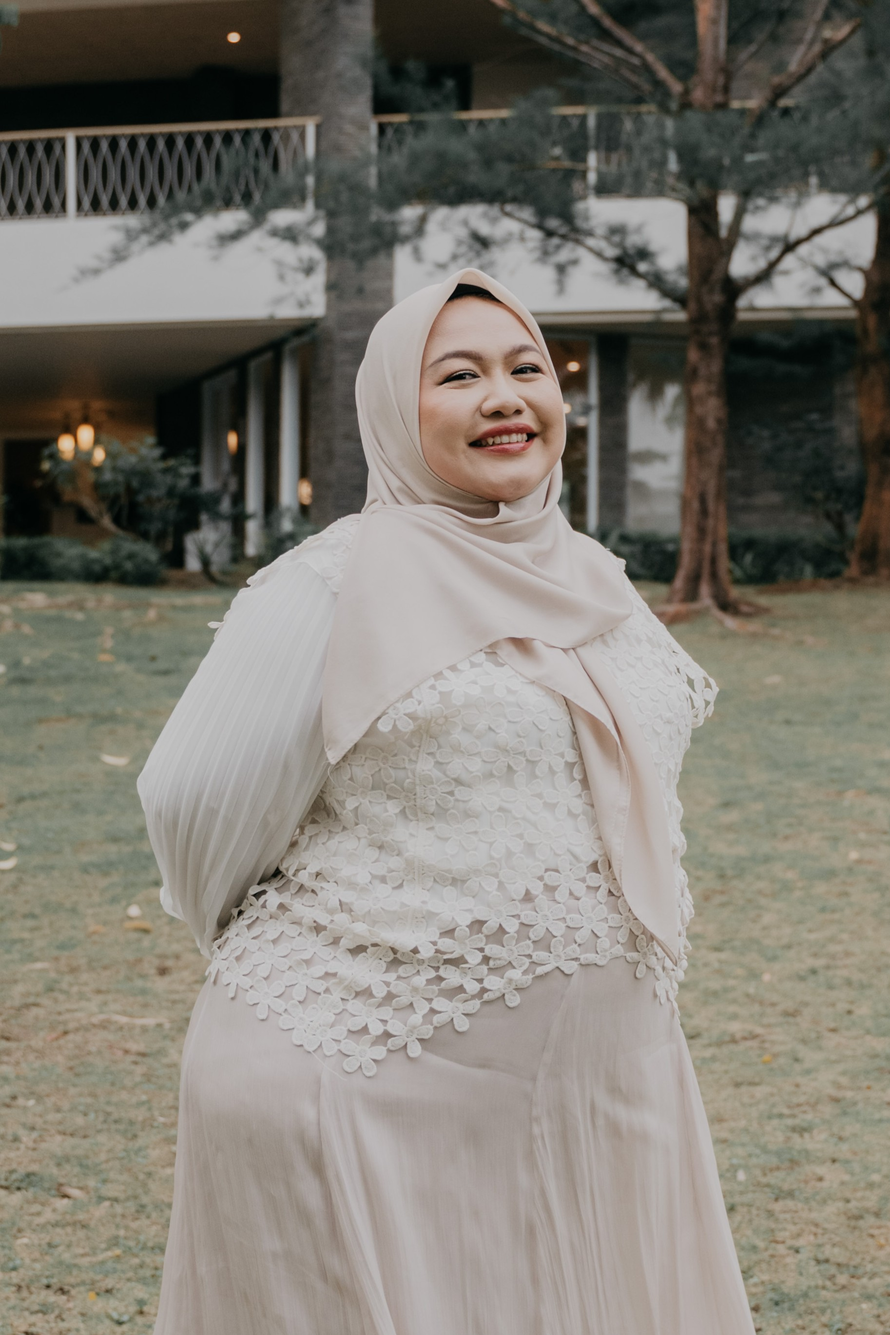
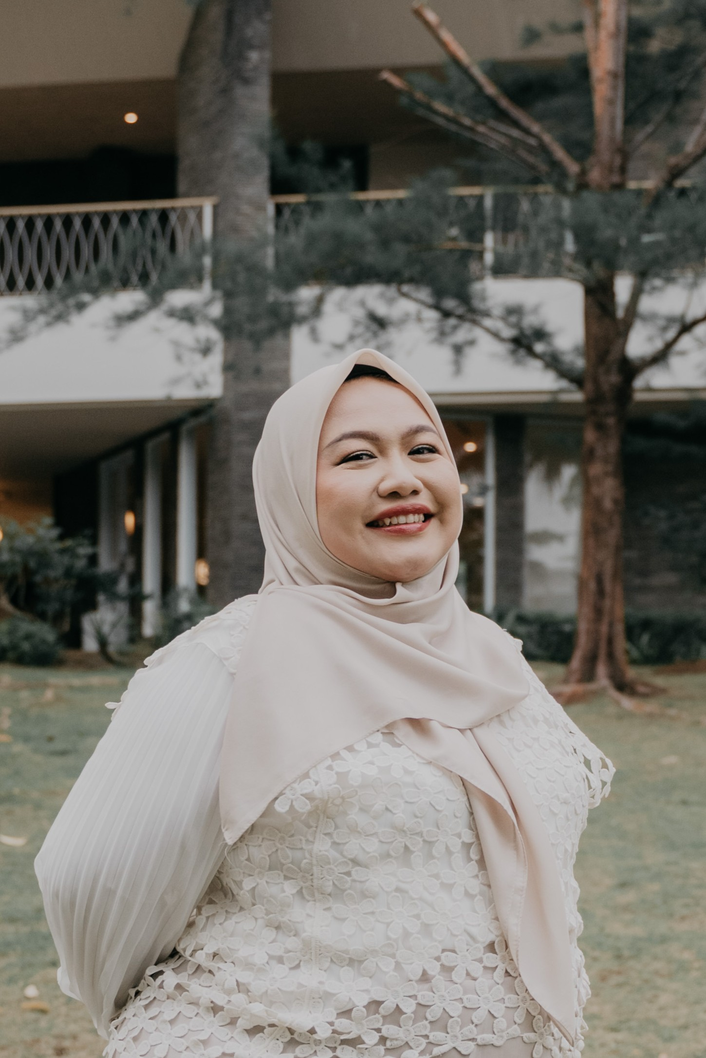
fix: keep parent names on one line and wire up Instagram links
Groom's parent line was long enough to wrap to a second line; widened
the column and applied a responsive clamp() font-size with nowrap so
it always fits on one line, on mobile included.

Instagram icons previously linked to "#". Added brideInstagram /
groomInstagram to config and wired them into the icon links (opens in
a new tab). Fill in the actual usernames in wedding.ts.

Also includes updated bride/groom photo assets and parent names.

diff --git a/src/components/CoupleSection.tsx b/src/components/CoupleSection.tsx
@@ -33,13 +33,18 @@ export const CoupleSection = () => {
             initial={{ opacity: 0, x: -50 }}
             animate={isInView ? { opacity: 1, x: 0 } : { opacity: 0, x: -50 }}
             transition={{ duration: 0.8, delay: 0.2 }}
-            className="flex flex-col items-center text-center max-w-xs"
+            className="flex flex-col items-center text-center max-w-sm w-full px-2"
           >
             <PhotoPlaceholder initial={weddingConfig.brideInitial} photo={weddingConfig.bridePhoto} size="lg" className="mb-8" />
             <h3 className="t2 text-text-main mb-2">{weddingConfig.brideFullName}</h3>
-            <p className="t5 text-olive-text mb-4">{weddingConfig.brideParents}</p>
+            <p
+              className="text-olive-text mb-4 whitespace-nowrap"
+              style={{ fontFamily: 'var(--font-body)', fontWeight: 300, letterSpacing: '0.05em', fontSize: 'clamp(0.7rem, 3.3vw, 0.95rem)' }}
+            >
+              {weddingConfig.brideParents}
+            </p>
             <div className="flex gap-4 mt-2">
-              <a href="#" className="w-8 h-8 rounded-full border border-gold-warm/50 flex items-center justify-center text-gold-warm hover:bg-gold-warm hover:text-sage-cream transition-colors">
+              <a href={weddingConfig.brideInstagram} target="_blank" rel="noopener noreferrer" className="w-8 h-8 rounded-full border border-gold-warm/50 flex items-center justify-center text-gold-warm hover:bg-gold-warm hover:text-sage-cream transition-colors">
                  <span className="sr-only">Instagram</span>
                  <svg width="14" height="14" viewBox="0 0 24 24" fill="none" stroke="currentColor" strokeWidth="2" strokeLinecap="round" strokeLinejoin="round"><rect x="2" y="2" width="20" height="20" rx="5" ry="5"></rect><path d="M16 11.37A4 4 0 1 1 12.63 8 4 4 0 0 1 16 11.37z"></path><line x1="17.5" y1="6.5" x2="17.51" y2="6.5"></line></svg>
               </a>
@@ -63,13 +68,18 @@ export const CoupleSection = () => {
             initial={{ opacity: 0, x: 50 }}
             animate={isInView ? { opacity: 1, x: 0 } : { opacity: 0, x: 50 }}
             transition={{ duration: 0.8, delay: 0.2 }}
-            className="flex flex-col items-center text-center max-w-xs"
+            className="flex flex-col items-center text-center max-w-sm w-full px-2"
           >
             <PhotoPlaceholder initial={weddingConfig.groomInitial} photo={weddingConfig.groomPhoto} size="lg" className="mb-8" />
             <h3 className="t2 text-text-main mb-2">{weddingConfig.groomFullName}</h3>
-            <p className="t5 text-olive-text mb-4">{weddingConfig.groomParents}</p>
+            <p
+              className="text-olive-text mb-4 whitespace-nowrap"
+              style={{ fontFamily: 'var(--font-body)', fontWeight: 300, letterSpacing: '0.05em', fontSize: 'clamp(0.7rem, 3.3vw, 0.95rem)' }}
+            >
+              {weddingConfig.groomParents}
+            </p>
             <div className="flex gap-4 mt-2">
-              <a href="#" className="w-8 h-8 rounded-full border border-gold-warm/50 flex items-center justify-center text-gold-warm hover:bg-gold-warm hover:text-sage-cream transition-colors">
+              <a href={weddingConfig.groomInstagram} target="_blank" rel="noopener noreferrer" className="w-8 h-8 rounded-full border border-gold-warm/50 flex items-center justify-center text-gold-warm hover:bg-gold-warm hover:text-sage-cream transition-colors">
                  <span className="sr-only">Instagram</span>
                  <svg width="14" height="14" viewBox="0 0 24 24" fill="none" stroke="currentColor" strokeWidth="2" strokeLinecap="round" strokeLinejoin="round"><rect x="2" y="2" width="20" height="20" rx="5" ry="5"></rect><path d="M16 11.37A4 4 0 1 1 12.63 8 4 4 0 0 1 16 11.37z"></path><line x1="17.5" y1="6.5" x2="17.51" y2="6.5"></line></svg>
               </a>

diff --git a/src/config/wedding.ts b/src/config/wedding.ts
@@ -3,12 +3,14 @@ export const weddingConfig = {
   groomName: "Dhimas Aditya",
   groomFullName: "Dhimas Aditya",
   groomInitial: "D",
-  groomParents: "Putra dari Bapak [X] & Ibu [Y]",
+  groomParents: "Putra dari Bapak Budi Santoso & Ibu Yenni Nurhayani",
+  groomInstagram: "https://instagram.com/USERNAME_GANTI", // 📝 GANTI — link Instagram mempelai pria
 
   brideName: "Raihannil Jannah",
   brideFullName: "Raihannil Jannah",
   brideInitial: "H",
-  brideParents: "Putri dari Bapak [X] & Ibu [Y]",
+  brideParents: "Putri dari Bapak Djunaidi & Ibu Asni Yanti",
+  brideInstagram: "https://instagram.com/USERNAME_GANTI", // 📝 GANTI — link Instagram mempelai wanita
 
   // ─── TANGGAL & WAKTU ──────────────────────────────
   weddingDate: "2026-12-20T09:00:00",
@@ -31,7 +33,7 @@ export const weddingConfig = {
   countdownBg: "/undangan-dhimas-hani.github.io/images/BG_Countdown.jpeg",
   backgroundMusic: "/undangan-dhimas-hani.github.io/audio/wedding-song.mp3?v=20260520",
 
-  groomPhoto: "/undangan-dhimas-hani.github.io/images/hero-bg.jpeg",      // 📝 GANTI jika ingin foto pengantin
+  groomPhoto: "/undangan-dhimas-hani.github.io/images/Groom_Photos.jpeg",      // 📝 GANTI jika ingin foto pengantin
   bridePhoto: "/undangan-dhimas-hani.github.io/images/Bride_Photos.jpeg",   // 📝 GANTI jika ingin foto pengantin
   galleryPhotos: [                      // 📝 GANTI — tambah/kurangi sesuai jumlah foto
     "/undangan-dhimas-hani.github.io/images/story-1.jpeg",
